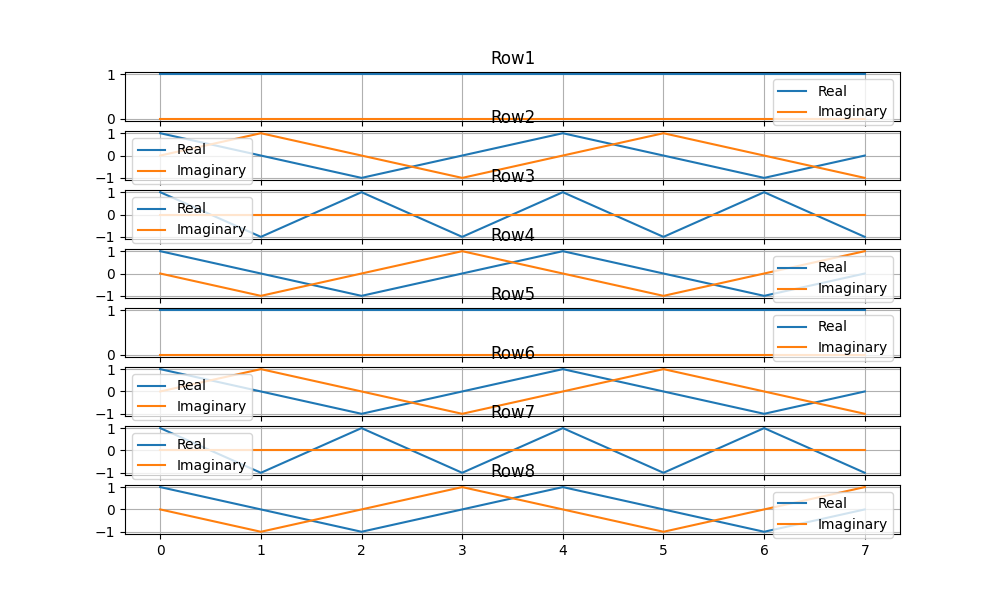
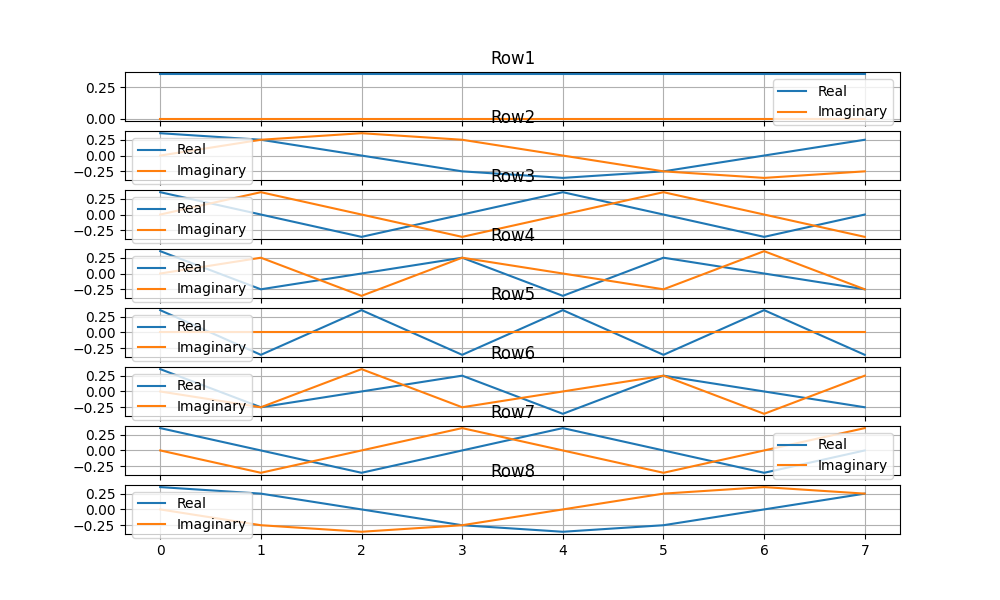
Lab3 - nelamuriri

Changed region(s): [[0.062, 0.18, 0.899, 0.9], [0.093, 0.12, 0.155, 0.15]]

diff --git a/Lab3/main.py b/Lab3/main.py
@@ -1,4 +1,5 @@
 import math
+import random
 
 import numpy as np
 from matplotlib import pyplot as plt
@@ -6,12 +7,23 @@ from matplotlib import pyplot as plt
 
 def generate_fourier_matrix(size):
     matrix = []
+    normalization_factor = 1 / math.sqrt(size)
     for x in range(size):
         row = []
         for y in range(size):
-            row.append(math.e ** (2 * np.pi * 1j * x * (y / 4)))
+            row.append(normalization_factor * math.e ** (2 * np.pi * 1j * x * (y / size)))
         matrix.append(row)
     return matrix
+
+
+def check_matrix_is_unitary(matrix):
+    matrix = np.array(matrix)
+    conjugate_transpose = np.conj(np.transpose(matrix))
+    product = np.dot(matrix, conjugate_transpose)
+    identity = np.identity(matrix.shape[0])
+    tolerance = 1e-10
+
+    return np.allclose(product, identity, rtol=tolerance)
 
 
 def ex1():
@@ -30,6 +42,76 @@ def ex1():
     plt.savefig("ex1.png")
     plt.show()
 
+    if check_matrix_is_unitary(fourier_matrix):
+        print("Matrix is unitary")
+    else:
+        print("Matrix is not unitary")
+
+
+def ex2():
+    signal_frequency = 20
+    fs = 1000
+
+    t = np.arange(0, 1, 1 / fs)
+
+    signal = np.sin(2 * np.pi * signal_frequency * t)
+
+    plt.figure(figsize=(10, 5))
+    plt.subplot(1, 2, 1)
+    plt.scatter(signal.real, signal.imag, c=np.abs(signal), cmap='viridis')
+    plt.title("Signal Wrapping on Unit Circle")
+    plt.xlabel("Real Part")
+    plt.ylabel("Imaginary Part")
+    plt.colorbar()
+    # Nu am inteles cum trebuie facut ^ .
+    # Am reusit cu internet sa fac ceva dar iese o linie dreapta si habar nu am daca e corect
+
+    frequencies = [random.randint(1, 5), random.randint(6, 10), random.randint(11, 15), random.randint(16, 20)]
+    plt.figure(figsize=(12, 6))
+
+    for i, freq in enumerate(frequencies):
+        wrapped_signal = signal * np.exp(-2j * np.pi * freq * t)
+        plt.subplot(2, 2, i + 1)
+        plt.plot(wrapped_signal.real, wrapped_signal.imag)
+        plt.title(f'Influence of ω={freq}')
+        plt.xlabel("Real Part")
+        plt.ylabel("Imaginary Part")
+        plt.grid()
+    # Banuiesc ca urmarim cum altereaza ω graficul?
+    plt.tight_layout()
+    plt.show()
+
+
+def ex3():
+    fs = 800
+    t = np.arange(0, 2, 1 / fs)
+
+    frequencies = [50, 200, 500]
+    amplitudes = [10, 5, 2]
+
+    signal = np.zeros_like(t)
+    for freq, amp in zip(frequencies, amplitudes):
+        signal += amp * np.sin(2 * np.pi * freq * t)
+
+    dft = np.fft.fft(signal)
+    frequencies_dft = np.fft.fftfreq(len(dft), 1 / fs)
+    magnitude_dft = np.abs(dft)
+
+    plt.figure(figsize=(12, 6))
+    plt.subplot(2, 1, 1)
+    plt.plot(t, signal)
+    plt.title("Signal Composed of Sinusoidal Components")
+
+    plt.subplot(2, 1, 2)
+    plt.plot(frequencies_dft, magnitude_dft)
+    plt.title("Fourier Transform Magnitude")
+    plt.xlabel("Frequency (Hz)")
+    plt.ylabel("Magnitude")
+    plt.grid(True)
+
+    plt.tight_layout()
+    plt.show()
+
 
 if __name__ == "__main__":
-    ex1()
+    ex2()
